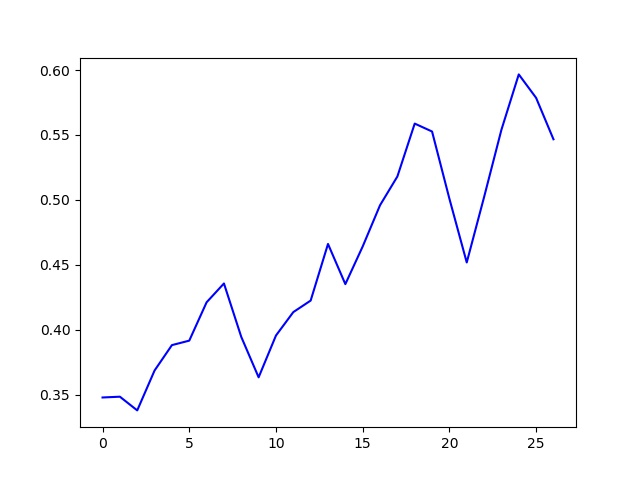
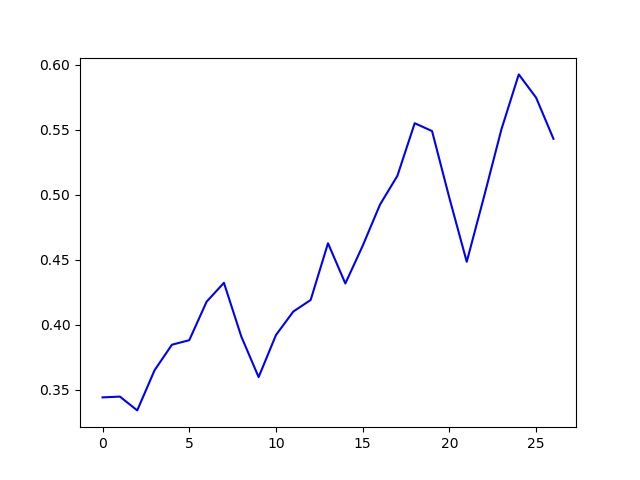
Makes stock fetching dynamic

diff --git a/main.py b/main.py
@@ -60,7 +60,7 @@ def registration():
 
 @app.route('/process')
 def process():
-    dfT= pd.read_csv('https://www.quandl.com/api/v3/datasets/NSE/IBULISL.csv?api_key=17qo2ogx-1KC1jEoox8d')
+    dfT= pd.read_csv('https://www.quandl.com/api/v3/datasets/NSE/'+request.args.get('sym')+'.csv?api_key=17qo2ogx-1KC1jEoox8d')
     prices = dfT['Close'].values.astype('float32')
     model = Sequential()   
     trainX, trainY, testX, testY=testandtrain(prices)
